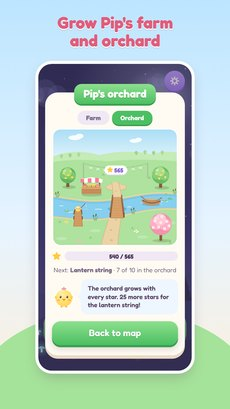
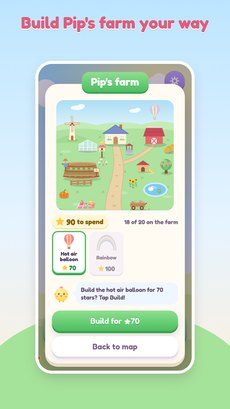
Starfurrow page: new screenshots, Pip's farm is now a shop you build your way
Claude-Session: https://claude.ai/code/session_01S1vzQxL1yGUYwtoxYJWhmN

diff --git a/starfurrow/index.html b/starfurrow/index.html
@@ -36,7 +36,7 @@
       <p class="eyebrow">A cozy puzzle game for Android</p>
       <h1>Starfurrow</h1>
       <p class="tagline">Link the friends, grow the farm.</p>
-      <p class="lead">Drag a line through three or more farm friends of the same kind to harvest them. Travel through 380 levels in 19 worlds, from the seasons of the farm to Sugarplum Glade and Firefly Forest, and grow Pip's farm with every star you earn.</p>
+      <p class="lead">Drag a line through three or more farm friends of the same kind to harvest them. Travel through 380 levels in 19 worlds, from the seasons of the farm to Sugarplum Glade and Firefly Forest, and build Pip's farm your way with the stars you earn.</p>
       <div class="cta">
         <span class="btn off">Coming soon to Google Play</span>
       </div>
@@ -63,7 +63,7 @@
       <article class="card"><div class="ct"><span class="it"><img src="assets/ic-seasons.png" width="56" height="56" alt=""></span><h3>380 levels in 19 worlds</h3></div><p>Follow the path from Spring Meadow through summer, autumn and winter to Starlight Village, then on to Sugarplum Glade and Firefly Forest.</p></article>
       <article class="card"><div class="ct"><span class="it"><img src="assets/ic-worlds.png" width="56" height="56" alt=""></span><h3>Something new in every world</h3></div><p>Chop weeds, thaw frozen friends, crack eggs, set butterflies free, knock down giant haystacks and let fireflies light up the board.</p></article>
       <article class="card"><div class="ct"><span class="it"><img src="assets/ic-harvest.png" width="56" height="56" alt=""></span><h3>Fill the Harvest meter</h3></div><p>Every link charges the meter. When it is full, tap the board to clear a whole patch at once, for free.</p></article>
-      <article class="card"><div class="ct"><span class="it"><img src="assets/ic-farm.png" width="56" height="56" alt=""></span><h3>Grow Pip's farm</h3></div><p>Every star you earn helps the farm grow, from a little veggie patch to a windmill, a hot air balloon and a rainbow. Then a riverside orchard opens up.</p></article>
+      <article class="card"><div class="ct"><span class="it"><img src="assets/ic-farm.png" width="56" height="56" alt=""></span><h3>Build Pip's farm</h3></div><p>Spend the stars you earn on what the farm gets next: a little veggie patch, a red barn, a windmill, a hot air balloon or a rainbow. Nicer things cost more stars, and you choose the order. Then build a riverside orchard too.</p></article>
       <article class="card"><div class="ct"><span class="it"><img src="assets/ic-events.png" width="56" height="56" alt=""></span><h3>Something to look forward to</h3></div><p>A daily puzzle and a daily gift, the Harvest race against the neighbours, the weekend Harvest Festival and Pip's Winter calendar every December.</p></article>
       <article class="card"><div class="ct"><span class="it"><img src="assets/ic-boosters.png" width="56" height="56" alt=""></span><h3>Handy boosters</h3></div><p>Dig out one piece with the Hoe, mix up the field with Shuffle, or fill the Harvest meter at once with Fertilizer.</p></article>
       <article class="card"><div class="ct"><span class="it"><img src="assets/ic-safe.png" width="56" height="56" alt=""></span><h3>Play your way</h3></div><p>No timers, so take as long as you like. Colour-blind patterns, plain shapes and a power saver mode. Made for phones and tablets, and it works offline.</p></article>
@@ -74,14 +74,14 @@
   <section>
     <h2 class="sec">Take a look</h2>
     <ul class="shots" aria-label="Screenshots. Scroll sideways to see more.">
-      <li><a href="assets/shots/01-big.jpg?v=3"><img src="assets/shots/01.jpg?v=3" width="200" height="356" loading="lazy" alt="Link cute farm friends"></a></li>
-      <li><a href="assets/shots/02-big.jpg?v=4"><img src="assets/shots/02.jpg?v=4" width="200" height="356" loading="lazy" alt="380 levels in 19 worlds"></a></li>
-      <li><a href="assets/shots/03-big.jpg?v=3"><img src="assets/shots/03.jpg?v=3" width="200" height="356" loading="lazy" alt="Free butterflies in fairy land"></a></li>
-      <li><a href="assets/shots/04-big.jpg?v=3"><img src="assets/shots/04.jpg?v=3" width="200" height="356" loading="lazy" alt="Light up the firefly forest"></a></li>
-      <li><a href="assets/shots/05-big.jpg?v=3"><img src="assets/shots/05.jpg?v=3" width="200" height="356" loading="lazy" alt="Knock down giant haystacks"></a></li>
-      <li><a href="assets/shots/06-big.jpg?v=3"><img src="assets/shots/06.jpg?v=3" width="200" height="356" loading="lazy" alt="Grow Pip's farm and orchard"></a></li>
-      <li><a href="assets/shots/07-big.jpg?v=3"><img src="assets/shots/07.jpg?v=3" width="200" height="356" loading="lazy" alt="Races, daily puzzles and festivals"></a></li>
-      <li><a href="assets/shots/08-big.jpg?v=3"><img src="assets/shots/08.jpg?v=3" width="200" height="356" loading="lazy" alt="Pip the chick shows you the ropes"></a></li>
+      <li><a href="assets/shots/01-big.jpg?v=5"><img src="assets/shots/01.jpg?v=5" width="200" height="356" loading="lazy" alt="Link cute farm friends"></a></li>
+      <li><a href="assets/shots/02-big.jpg?v=5"><img src="assets/shots/02.jpg?v=5" width="200" height="356" loading="lazy" alt="380 levels in 19 worlds"></a></li>
+      <li><a href="assets/shots/03-big.jpg?v=5"><img src="assets/shots/03.jpg?v=5" width="200" height="356" loading="lazy" alt="Free butterflies in fairy land"></a></li>
+      <li><a href="assets/shots/04-big.jpg?v=5"><img src="assets/shots/04.jpg?v=5" width="200" height="356" loading="lazy" alt="Light up the firefly forest"></a></li>
+      <li><a href="assets/shots/05-big.jpg?v=5"><img src="assets/shots/05.jpg?v=5" width="200" height="356" loading="lazy" alt="Knock down giant haystacks"></a></li>
+      <li><a href="assets/shots/06-big.jpg?v=5"><img src="assets/shots/06.jpg?v=5" width="200" height="356" loading="lazy" alt="Build Pip's farm your way"></a></li>
+      <li><a href="assets/shots/07-big.jpg?v=5"><img src="assets/shots/07.jpg?v=5" width="200" height="356" loading="lazy" alt="Races, daily puzzles and festivals"></a></li>
+      <li><a href="assets/shots/08-big.jpg?v=5"><img src="assets/shots/08.jpg?v=5" width="200" height="356" loading="lazy" alt="Pip the chick shows you the ropes"></a></li>
     </ul>
   </section>
 
